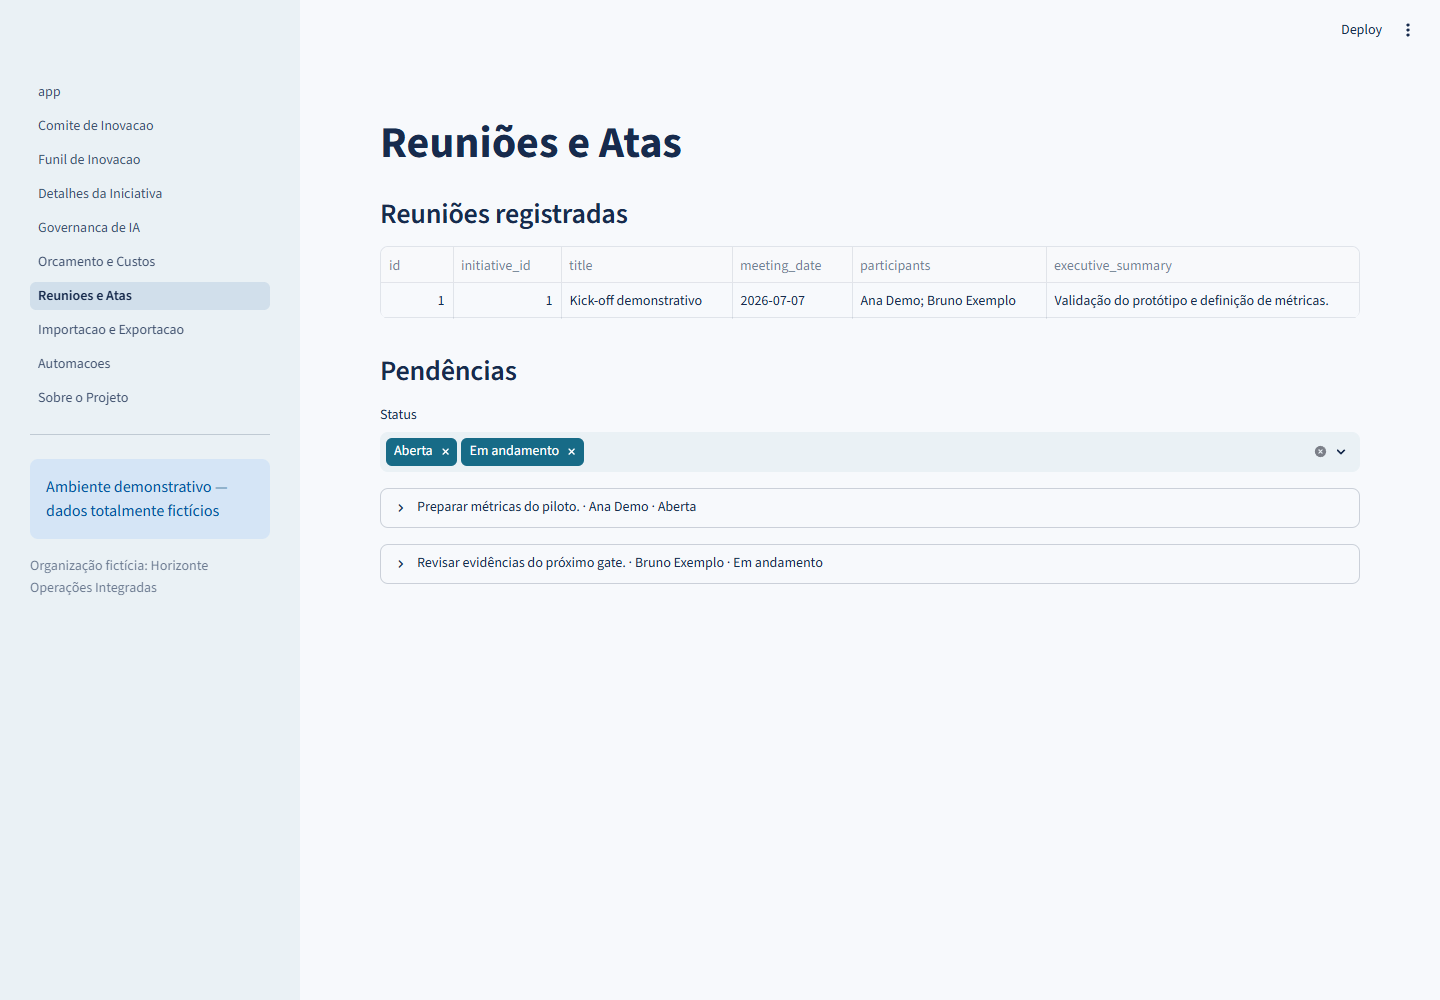
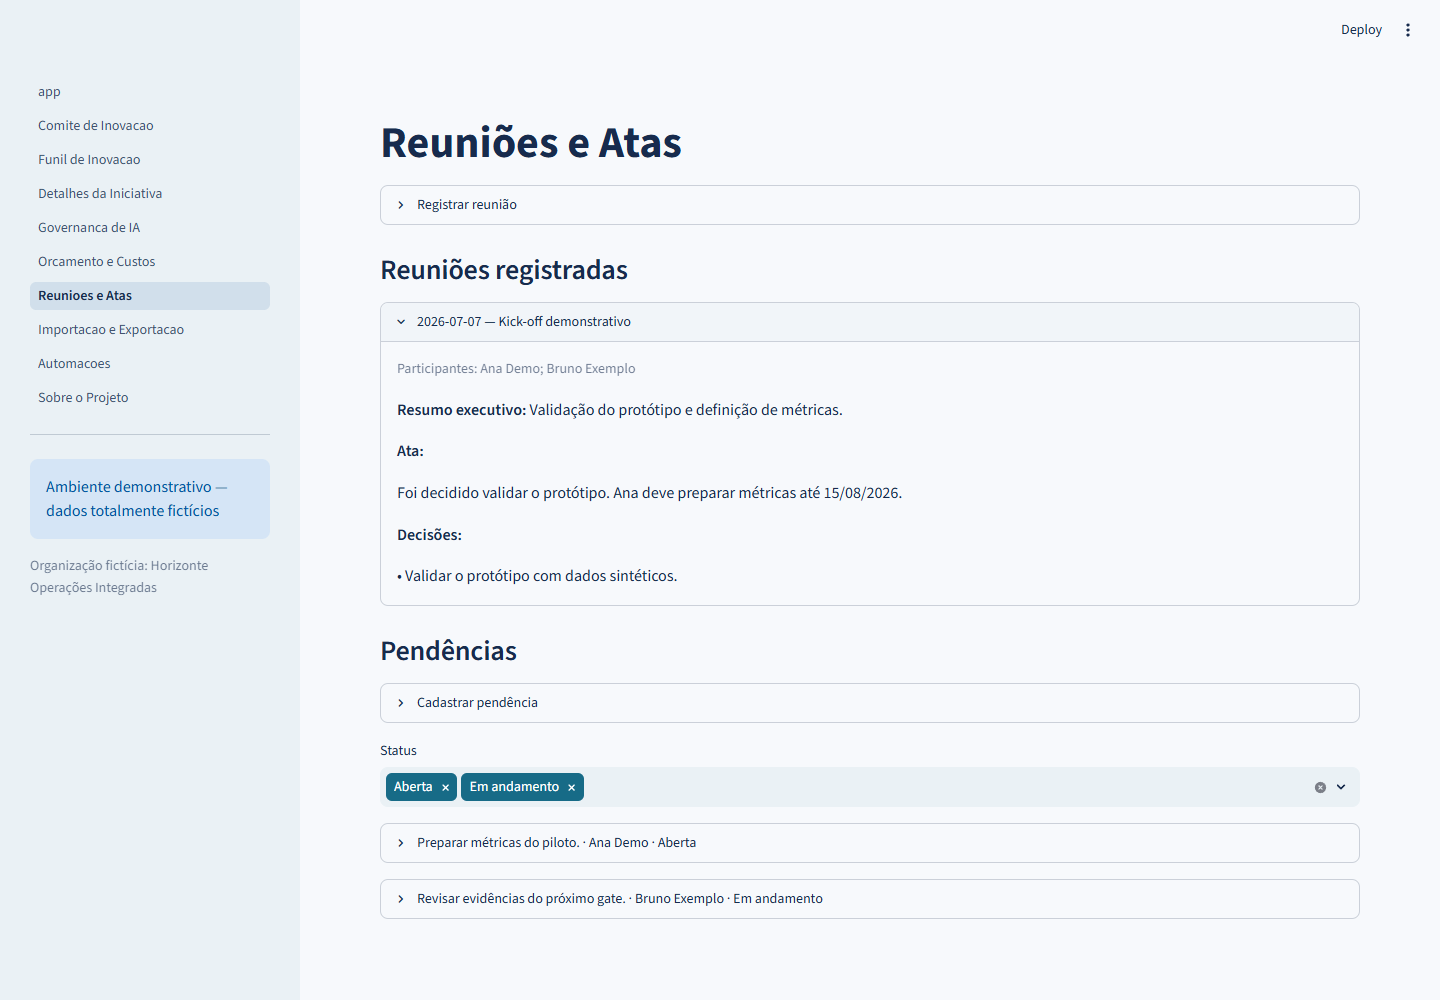
docs: refresh operational screenshots

diff --git a/scripts/capture_screenshots.py b/scripts/capture_screenshots.py
@@ -305,9 +305,20 @@ def _capture_pages(page: Any, root: Path, output_dir: Path, port: int) -> None:
     _navigate(page, port, "Orcamento_e_Custos", "Orçamento e Custos")
     _capture(page, output_dir, EXPECTED_SCREENSHOTS[6])
     _navigate(page, port, "Reunioes_e_Atas", "Reuniões e Atas")
+    page.get_by_text("Kick-off demonstrativo", exact=False).first.click()
+    page.get_by_text("Validação do protótipo e definição de métricas", exact=False).first.wait_for(
+        timeout=20_000
+    )
     _capture(page, output_dir, EXPECTED_SCREENSHOTS[7])
     _navigate(page, port, "Importacao_e_Exportacao", "Importação e Exportação")
-    _capture(page, output_dir, EXPECTED_SCREENSHOTS[8])
+    page.locator('input[type="file"]').set_input_files(
+        root / "screenshots-temp" / "iniciativas.xlsx"
+    )
+    preview_marker = page.get_by_text("Prévia:", exact=False)
+    preview_marker.wait_for(timeout=30_000)
+    preview_marker.scroll_into_view_if_needed()
+    page.evaluate("window.scrollBy(0, -160)")
+    _capture(page, output_dir, EXPECTED_SCREENSHOTS[8], top=False)
     _navigate(page, port, "Automacoes", "Automações")
     page.get_by_role("button", name="Executar verificações").click()
     _wait_for_render(page)
